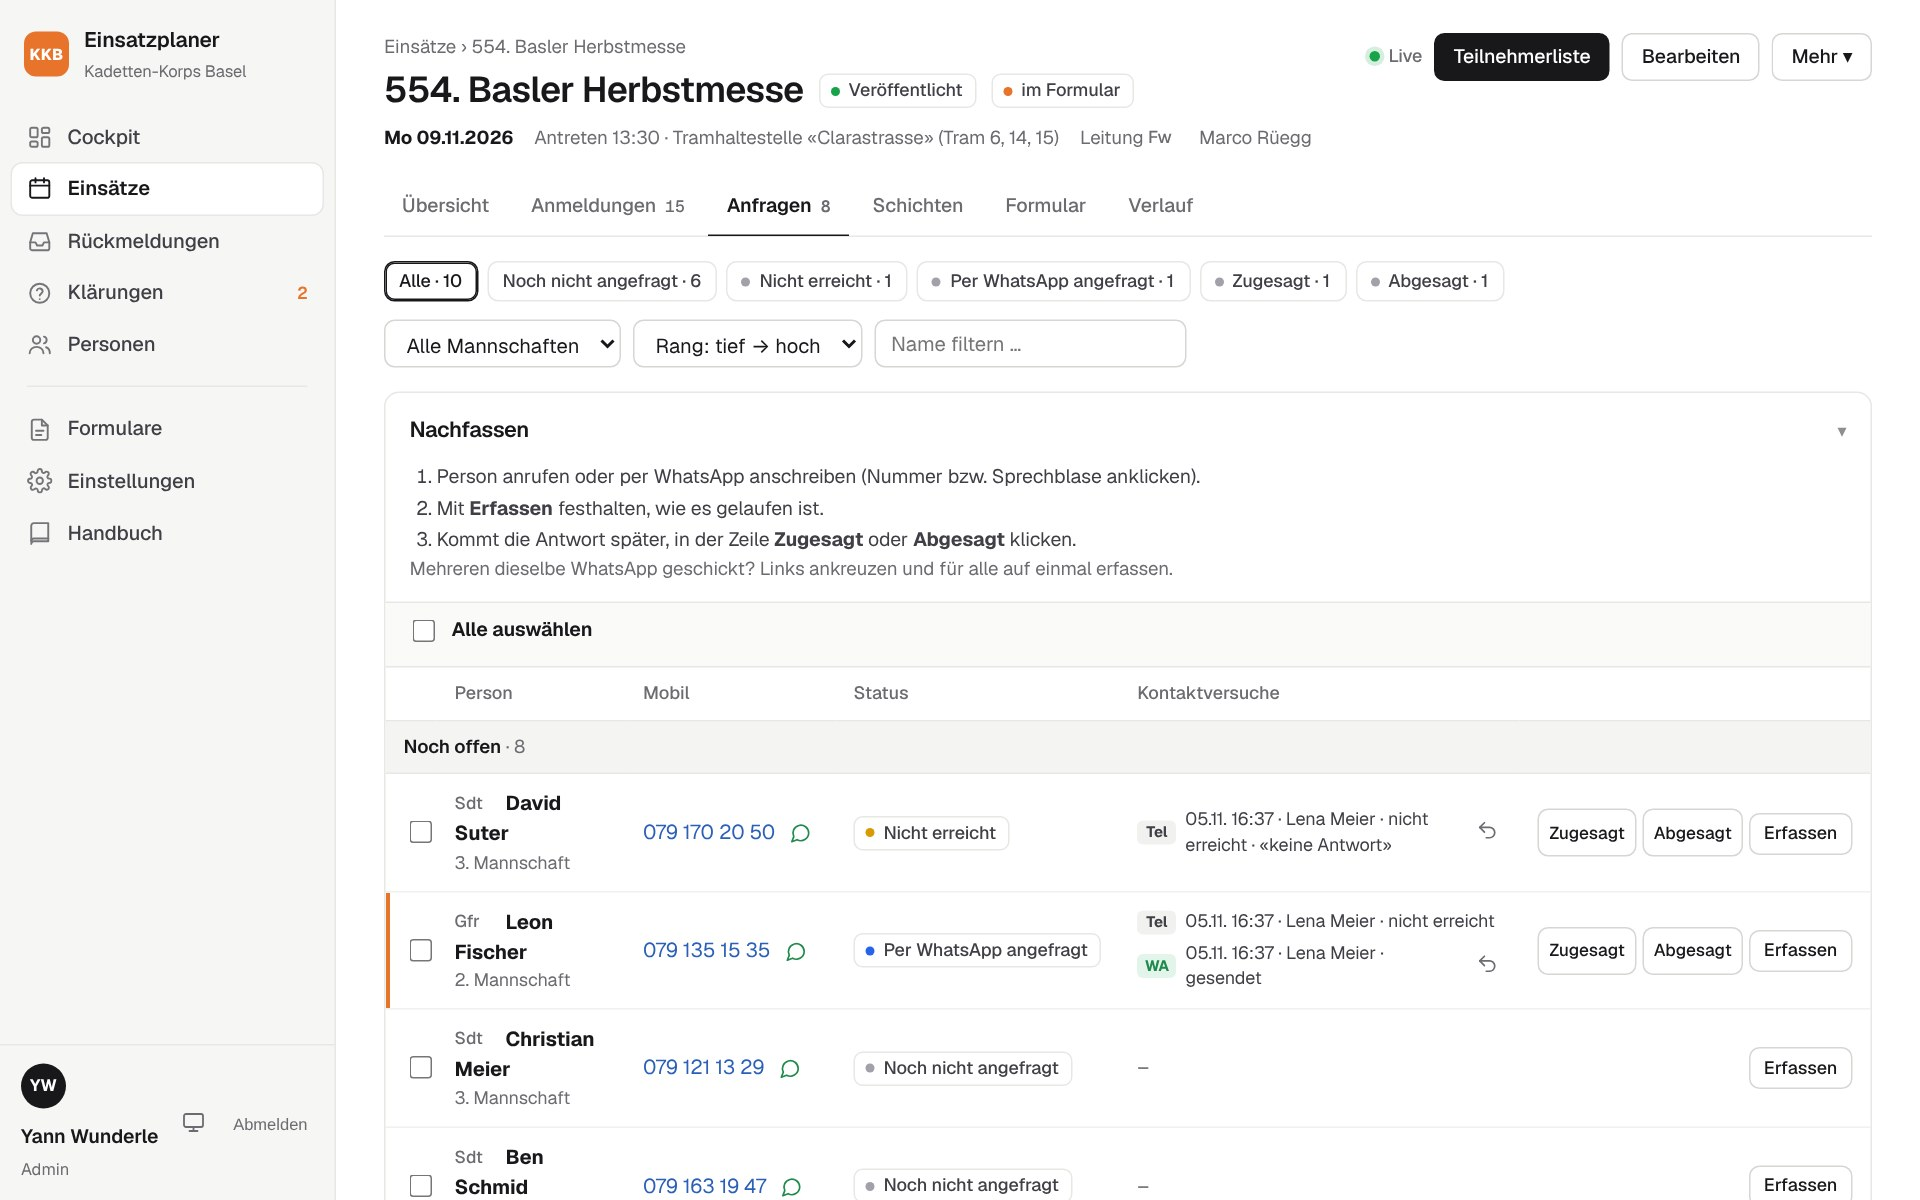
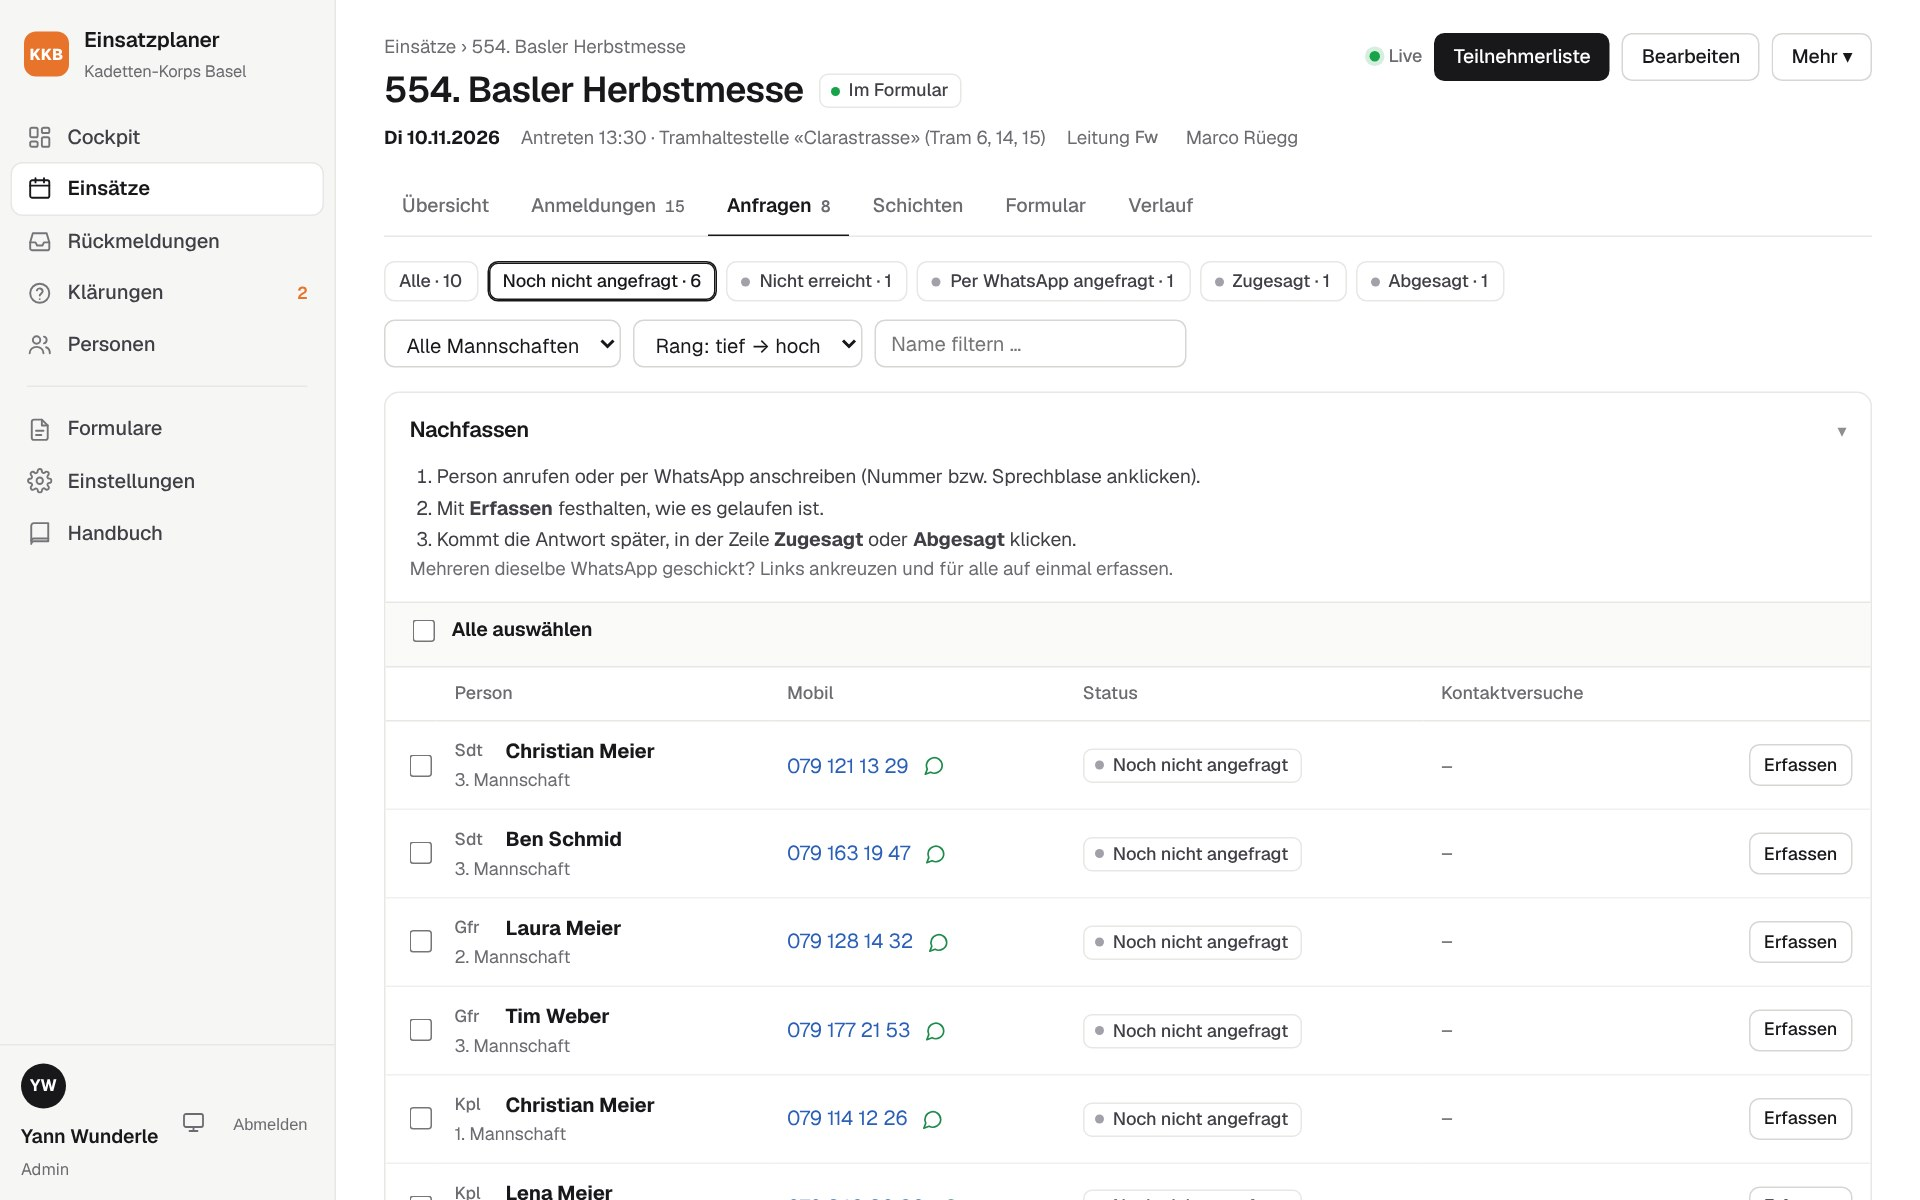
Rückmeldungen am Handy übersichtlicher, Anfragen starten mit «Noch nicht angefragt», Einstellungen öffnen bei Auswahllisten
- Rückmeldungen am Handy: schmale Namensspalte (Rang und Name), Filter je auf voller Breite
- Reiter Anfragen: Standardfilter «Noch nicht angefragt», «Alle» zeigt alle; ist niemand mehr offen, gleich alle
- Cockpit «Nachfassen» führt zu allen Anfragen
- /verwaltung öffnet den ersten Reiter (Auswahllisten) statt Benutzer
- Handbuch und Bild 11 nachgeführt

Claude-Session: https://claude.ai/code/session_01EBemd3TfnuY25gZiuL9mnb

diff --git a/src/routes/events.js b/src/routes/events.js
@@ -320,8 +320,14 @@ router.get('/einsaetze/:id/verpflegungsliste', loadEvent, (req, res) => {
 // Reiter «Anfragen»
 router.get('/einsaetze/:id/anfragen', loadEvent, (req, res) => {
   const e = req.event;
-  const filters = { status: req.query.status || '', team: req.query.team || '', q: req.query.q || '', sort: req.query.sort === 'rang_ab' ? 'rang_ab' : 'rang' };
-  const list = inquiries.listForEvent(e.id, filters);
+  // Standard: «Noch nicht angefragt»; «alle» zeigt alle. Ist niemand mehr offen, zeigt der Standard alle.
+  const asked = req.query.status;
+  const filters = { status: asked === undefined ? 'offen' : asked === 'alle' ? '' : asked, team: req.query.team || '', q: req.query.q || '', sort: req.query.sort === 'rang_ab' ? 'rang_ab' : 'rang' };
+  let list = inquiries.listForEvent(e.id, filters);
+  if (asked === undefined && !list.counts.offen) {
+    filters.status = '';
+    list = inquiries.listForEvent(e.id, filters);
+  }
   const format = wantsExport(req);
   if (format) {
     return sendTable(res, format, `Anfragen ${e.name}`, [

diff --git a/src/services/cockpit.js b/src/services/cockpit.js
@@ -53,7 +53,7 @@ function todos(rows, kpis) {
       }
     }
     if (s.neu) list.push({ tag: 'Bestätigen', tone: 'blue', text: `${e.name}: ${s.neu} neue Anmeldung${s.neu === 1 ? '' : 'en'} bestätigen`, href: `/einsaetze/${e.id}/anmeldungen?status=neu` });
-    if (s.inquiryOpen) list.push({ tag: 'Nachfassen', tone: 'blue', text: `${e.name}: ${s.inquiryOpen} Person${s.inquiryOpen === 1 ? '' : 'en'} noch nicht erreicht`, href: `/einsaetze/${e.id}/anfragen` });
+    if (s.inquiryOpen) list.push({ tag: 'Nachfassen', tone: 'blue', text: `${e.name}: ${s.inquiryOpen} Person${s.inquiryOpen === 1 ? '' : 'en'} noch nicht erreicht`, href: `/einsaetze/${e.id}/anfragen?status=alle` });
     const days = e.date_from ? daysUntil(e.date_from) : null;
     if (e.status === 'veroeffentlicht' && days !== null && days <= 7 && s.bestaetigt && !e.calendar_sent_at) {
       list.push({ tag: 'Aufgebot', tone: 'gray', text: `Kalendertermin ${e.name} noch nicht exportiert`, href: `/einsaetze/${e.id}` });

diff --git a/public/css/ruhig.css b/public/css/ruhig.css
@@ -414,3 +414,14 @@ tr.group-row strong { font-weight: 600; }
   .fn-grid input { width: 60px; }
   .fn-sum { width: 60px; }
 }
+
+/* Rückmeldungen am Handy: schmale Namensspalte (bleibt beim seitlichen Schieben stehen), Filter je auf voller Breite */
+@media (max-width: 760px) {
+  .fb-filters > input[type=search], .fb-filters > select { flex: 1 1 100%; min-width: 0; height: auto; min-height: 44px; line-height: 1.3; }
+  .fb-matrix .fb-name { min-width: 96px; width: 104px; max-width: 112px; padding-left: 8px !important; padding-right: 6px !important; }
+  .fb-matrix td.fb-name strong { display: block; font-size: 13px; line-height: 1.25; overflow-wrap: break-word; }
+  .fb-matrix td.fb-name .rank { display: block; font-size: 11px; margin: 0 0 1px; width: auto; }
+  .fb-matrix td.fb-name .sub { display: none; }
+  .fb-matrix tfoot td.fb-name { font-size: 11px; }
+  .fb-ev { min-width: 76px; max-width: 92px; padding: 8px 4px !important; }
+}

diff --git a/test/http.test.js b/test/http.test.js
@@ -48,6 +48,8 @@ test('Anmeldung und Rollen', async () => {
   assert.equal((await get('/', admin.cookie)).status, 200);
   for (const p of ['/verwaltung/benutzer/neu', '/verwaltung/benutzer/1']) assert.equal((await get(p, admin.cookie)).status, 200, p);
   assert.equal((await get('/verwaltung/benutzer', admin.cookie)).status, 200);
+  // Einstellungen öffnen beim ersten Reiter, nicht bei Benutzer
+  assert.equal((await get('/verwaltung', admin.cookie)).headers.get('location'), '/verwaltung/listen');
 
   const lena = await login('lena', 'Aufgebot-2026-x');
   assert.equal((await get('/einsaetze', lena.cookie)).status, 200);

diff --git a/src/routes/admin.js b/src/routes/admin.js
@@ -22,7 +22,8 @@ const twofaOptions = require('../auth/twofa').REMEMBER_OPTIONS;
 const msEnabled = () => Boolean(auth.provider('microsoft'));
 router.use('/verwaltung', auth.requireAdmin);
 
-router.get('/verwaltung', (req, res) => res.redirect('/verwaltung/benutzer'));
+// Einstellungen öffnen beim ersten Reiter (Auswahllisten), nicht bei Benutzer
+router.get('/verwaltung', (req, res) => res.redirect('/verwaltung/listen'));
 
 function personOptions() {
   return db.all(`SELECT p.id, p.first_name, p.last_name, r.short AS rank_short FROM persons p LEFT JOIN ranks r ON r.id = p.rank_id

diff --git a/docs/handbuch/handbuch.md b/docs/handbuch/handbuch.md
@@ -365,6 +365,8 @@ Gross- und Kleinschreibung, Leerzeichen, Umlaute (ä/ae) und vertauschte Vor- un
 
 Der Reiter **Anfragen** zeigt alle aktiven Mitglieder, die sich für diesen Einsatz noch nicht gemeldet haben, und alle, die schon angefragt wurden. Die Zahl im Reiter ist dieselbe wie bei der Gruppe **Noch offen**: noch nicht angefragt, nicht erreicht, WhatsApp ohne Antwort und unsicher.
 
+Beim Öffnen ist der Filter **Noch nicht angefragt** gewählt. So siehst du zuerst, wen noch niemand gefragt hat. **Alle** zeigt die ganze Liste. Ist niemand mehr ohne Anfrage, zeigt der Reiter gleich alle.
+
 ![Einsatz › Anfragen](bilder/11-anfragen.jpg)
 
 **So geht Nachfassen** (steht auch oben im Reiter; ein Klick auf «Nachfassen» klappt die Hilfe zu, und sie bleibt in diesem Browser zu):
@@ -426,7 +428,7 @@ Die Seite **Rückmeldungen** beantwortet die wichtigste Frage der Aufgebotsstell
 
 ![Rückmeldungen als Tabelle](bilder/14-rueckmeldungen.jpg)
 
-- Mitglieder als Zeilen, Einsätze als Spalten. Kopfzeile und Namensspalte bleiben beim Scrollen stehen.
+- Mitglieder als Zeilen, Einsätze als Spalten. Kopfzeile und Namensspalte bleiben beim Scrollen stehen. Am Handy ist die Namensspalte schmal und zeigt nur Rang und Name. So sind mehr Schichten sichtbar. Die Filter stehen untereinander.
 - Im Spaltenkopf jedes Einsatzes steht die Besetzung als Balken, z. B. «11 / 16». Sie zählt gleich wie der Reiter «Schichten» und die Übersicht: Anmeldungen mit Status Neu, Rückfrage oder Bestätigt. Die Warteliste zählt nicht.
 - **Symbole:** ✓ An, ✕ Ab, ? Unsicher, leeres Feld = Offen. Dazu gibt es eigene Symbole für den genaueren Stand: ein grün gefülltes ✓ für eine bestätigte Anmeldung, eine Uhr für die Warteliste, eine blaue Sprechblase für «Nachricht gesendet, Antwort offen», ein gelbes Telefon für «angerufen, nicht erreicht», eine sprechende Person für «mündlich gefragt, weiss es noch nicht» und ! für «Rückfrage nötig». Die **Legende** direkt über der Tabelle erklärt alle Symbole. Sie ist immer sichtbar, in beiden Ansichten. Das Symbol zeigt immer nur den neuesten Stand.
 - **Wer hat das gesetzt?** Fährt man mit der Maus über ein Feld, steht dort der letzte Eintrag mit Name und Zeit, z. B. «Zuletzt: Anmeldung: Bestätigt – Lena Meier, heute 14:20 (4 Einträge im Verlauf)». Hat sich jemand selbst über das Formular gemeldet, steht «Person selbst».
@@ -671,7 +673,7 @@ Jede Person existiert genau einmal. Anmeldungen, Anfragen und Schichten verweise
 
 ## 18 · Für Admins
 
-Unter **Einstellungen** sorgt der Admin dafür, dass die Grundlagen stimmen. Die Reiter sind in zwei Gruppen geteilt: **Inhalte** (Auswahllisten, Vorlagen, Kalendertermin, Bestätigungsmail) ändert, was Mitglieder und Aufgebotsstelle sehen. **Betrieb** (Allgemein, Benutzer, Server, System) hält den Einsatzplaner am Laufen.
+Unter **Einstellungen** sorgt der Admin dafür, dass die Grundlagen stimmen. Die Reiter sind in zwei Gruppen geteilt: **Inhalte** (Auswahllisten, Vorlagen, Kalendertermin, Bestätigungsmail) ändert, was Mitglieder und Aufgebotsstelle sehen. **Betrieb** (Allgemein, Benutzer, Server, System) hält den Einsatzplaner am Laufen. Ein Klick auf **Einstellungen** öffnet den ersten Reiter, die Auswahllisten.
 
 ### Benutzer
 
